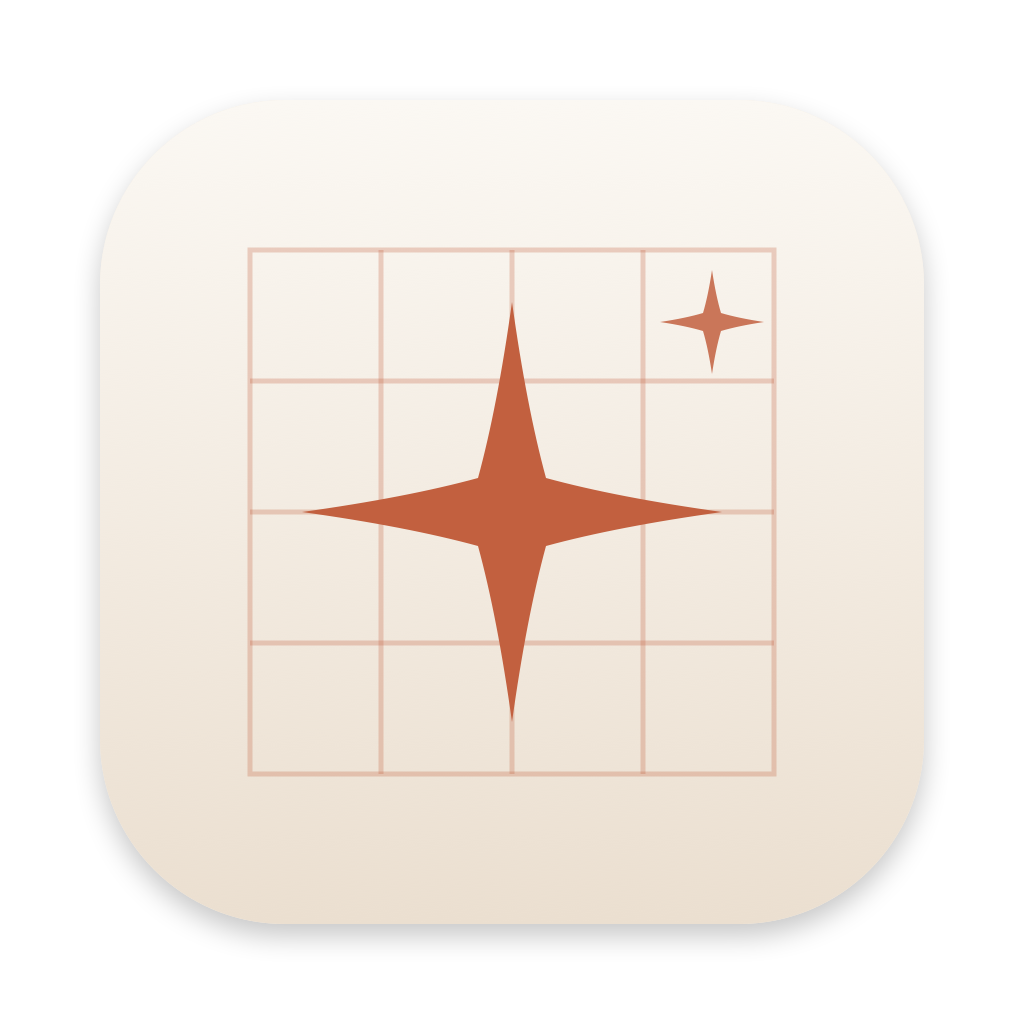
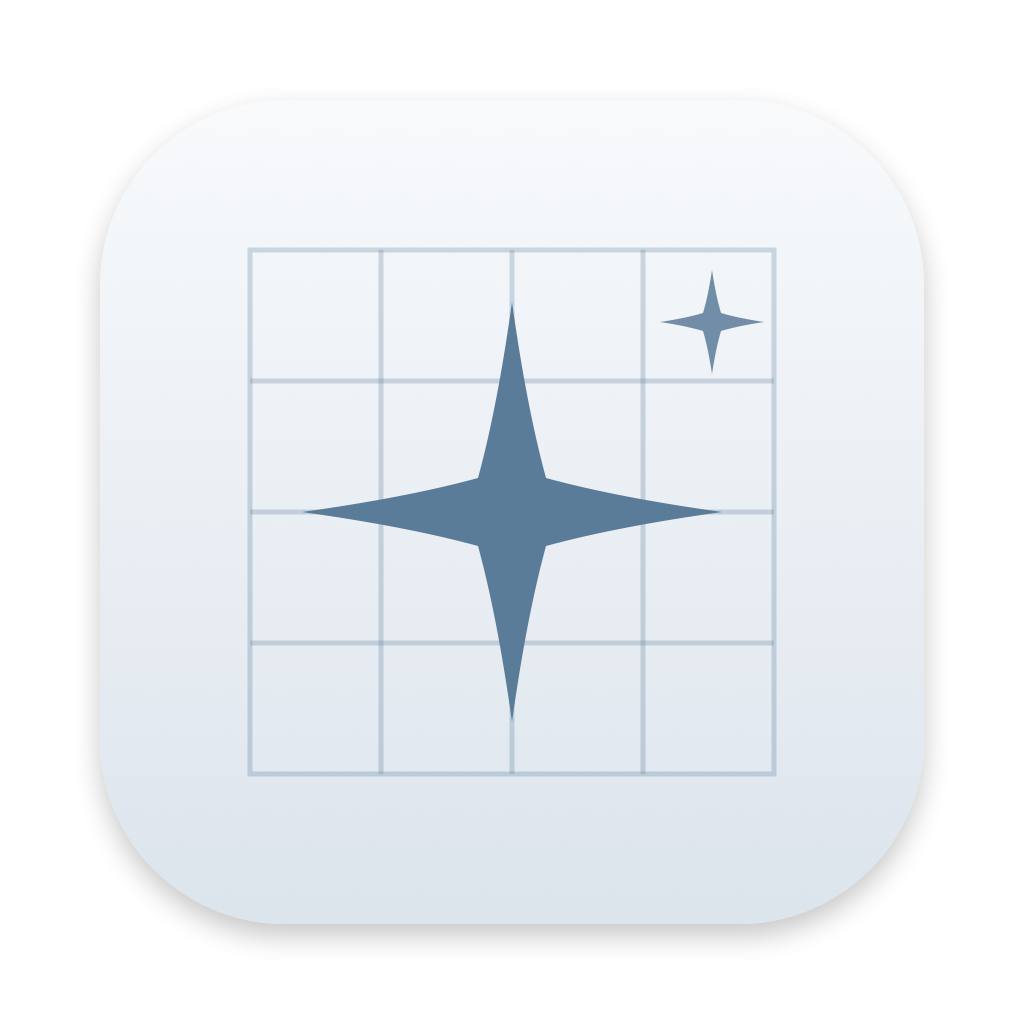
霧藍主色＋圖示；亂數起盤擴到西元1～9999年（修負數干支、跳過1582改曆缺日）；選單icon跟文字同色

Changed region(s): [[0.0938, 0.2188, 0.9062, 0.9062]]

diff --git a/apps/apple/Sources/Ziwei/Views/QuickMenu.swift b/apps/apple/Sources/Ziwei/Views/QuickMenu.swift
@@ -150,10 +150,9 @@ enum TempChart {
         case .now(let g): p = make(Date(), g, name: "紫占 · 此刻"); level = ZSettings.stored().openLevel
         case .sevenLayer(let g): p = make(Date(), g, name: "七層限流盤"); level = 5
         case .random(let g):
-            var cal = Calendar(identifier: .gregorian); cal.timeZone = .current
-            let d = cal.date(from: DateComponents(year: Int.random(in: 1940...2015), month: Int.random(in: 1...12),
-                                                  day: Int.random(in: 1...28), hour: Int.random(in: 0...23), minute: Int.random(in: 0...59)))!
-            p = make(d, g, name: "匿名"); level = ZSettings.stored().openLevel
+            // 亂序起盤：西元 1～9999 年任一刻
+            p = make(Int.random(in: Self.years), Int.random(in: 1...12), Int.random(in: 1...28),
+                     Int.random(in: 0...23), Int.random(in: 0...59), g, name: "匿名"); level = ZSettings.stored().openLevel
         }
         NotificationCenter.default.post(name: .openTemp, object: TempRequest(person: p, level: level))
     }
@@ -163,24 +162,30 @@ enum TempChart {
     static func openBaoshu(_ n: Int) {
         let minute = UInt64(Date().timeIntervalSince1970 / 60)
         var rng = SeededRandom(seed: UInt64(n) &* 0x9E3779B97F4A7C15 ^ minute)
-        let year = Int.random(in: 1930...2025, using: &rng)
+        // 西元 1～9999 年都可能；直接抽國曆日期，不經農曆換算（Foundation 在極端年份不可靠）
+        let year = Int.random(in: Self.years, using: &rng)
         let month = Int.random(in: 1...12, using: &rng)
-        var day = Int.random(in: 1...30, using: &rng)
-        if day == 30 && Lunar.monthLength(year, month) == 29 { day = 29 }
+        let day = Int.random(in: 1...28, using: &rng)
         let branch = Int.random(in: 0...11, using: &rng)
         let g: Gender = Bool.random(using: &rng) ? .male : .female
-        guard let s = Lunar.toSolar(year, month, day) else { return }
-        var cal = Calendar(identifier: .gregorian); cal.timeZone = TimeZone(identifier: "Asia/Taipei")!
-        let date = cal.date(from: DateComponents(year: s.0, month: s.1, day: s.2, hour: branch == 0 ? 0 : branch * 2, minute: branch == 0 ? 30 : 0))!
-        let p = make(date, g, name: "匿名")
+        let p = make(year, month, day, branch == 0 ? 0 : branch * 2, branch == 0 ? 30 : 0, g, name: "匿名")
         NotificationCenter.default.post(name: .openTemp, object: TempRequest(person: p, level: ZSettings.stored().openLevel))
-        Toast.show("報數 \(n) → 農曆\(year)年\(ZW.lunarMonths[month - 1])\(ZW.lunarDays[day - 1]) \(ZW.branches[branch])時 · \(g.rawValue)")
+        Toast.show("報數 \(n) → 西元\(year)年\(month)月\(day)日 \(ZW.branches[branch])時 · \(g.rawValue)")
     }
+
+    /// 亂數起盤的年份範圍
+    static let years = 1...9999
 
     static func make(_ d: Date, _ g: Gender, name: String) -> Person {
         let c = Calendar.current.dateComponents([.year, .month, .day, .hour, .minute], from: d)
-        return Person(name: name, gender: g, solar: "\(c.year!)-\(c.month!)-\(c.day!)", hour: SolarTime.shichen(c.hour!),
-                      group: "占卜", clock: String(format: "%d-%d-%d %02d:%02d", c.year!, c.month!, c.day!, c.hour!, c.minute!))
+        return make(c.year!, c.month!, c.day!, c.hour!, c.minute!, g, name: name)
+    }
+
+    static func make(_ y: Int, _ m: Int, _ d: Int, _ h: Int, _ min: Int, _ g: Gender, name: String) -> Person {
+        // 1582-10-5～14 在格里曆改曆時被跳過，不存在（iztro 會報錯）→ 移到 10-15
+        let d = (y == 1582 && m == 10 && (5...14).contains(d)) ? 15 : d
+        return Person(name: name, gender: g, solar: "\(y)-\(m)-\(d)", hour: SolarTime.shichen(h),
+               group: "占卜", clock: String(format: "%d-%d-%d %02d:%02d", y, m, d, h, min))
     }
 }
 

diff --git a/apps/apple/scripts/make-icon.swift b/apps/apple/scripts/make-icon.swift
@@ -19,19 +19,19 @@ let shape = CGPath(roundedRect: body, cornerWidth: 185, cornerHeight: 185, trans
 
 ctx.saveGState()
 ctx.setShadow(offset: CGSize(width: 0, height: -12), blur: 28, color: rgb(0x000000, 0.22))
-ctx.addPath(shape); ctx.setFillColor(rgb(0xF5EFE6)); ctx.fillPath()
+ctx.addPath(shape); ctx.setFillColor(rgb(0xF1F4F7)); ctx.fillPath()
 ctx.restoreGState()
 
 ctx.saveGState()
 ctx.addPath(shape); ctx.clip()
-let grad = CGGradient(colorsSpace: cs, colors: [rgb(0xFBF8F3), rgb(0xEBDFD0)] as CFArray, locations: [0, 1])!
+let grad = CGGradient(colorsSpace: cs, colors: [rgb(0xF8FAFC), rgb(0xDCE4EC)] as CFArray, locations: [0, 1])!
 ctx.drawLinearGradient(grad, start: CGPoint(x: 0, y: body.maxY), end: CGPoint(x: 0, y: body.minY), options: [])
 
 // 十二宮格：4×4 外圈，中間 2×2 留白
 let inset: CGFloat = 150
 let grid = body.insetBy(dx: inset, dy: inset)
 let cell = grid.width / 4
-ctx.setStrokeColor(rgb(0xC2603F, 0.28))
+ctx.setStrokeColor(rgb(0x5B7C99, 0.28))
 ctx.setLineWidth(5)
 ctx.stroke(grid)
 for k in 1..<4 {
@@ -68,8 +68,8 @@ func sparkle(center c: CGPoint, r: CGFloat, waist: CGFloat) -> CGPath {
     return p
 }
 let center = CGPoint(x: body.midX, y: body.midY)
-ctx.addPath(sparkle(center: center, r: 210, waist: 34)); ctx.setFillColor(rgb(0xC2603F)); ctx.fillPath()
-ctx.addPath(sparkle(center: CGPoint(x: center.x + 200, y: center.y + 190), r: 52, waist: 9)); ctx.setFillColor(rgb(0xC2603F, 0.85)); ctx.fillPath()
+ctx.addPath(sparkle(center: center, r: 210, waist: 34)); ctx.setFillColor(rgb(0x5B7C99)); ctx.fillPath()
+ctx.addPath(sparkle(center: CGPoint(x: center.x + 200, y: center.y + 190), r: 52, waist: 9)); ctx.setFillColor(rgb(0x5B7C99, 0.85)); ctx.fillPath()
 ctx.restoreGState()
 
 let img = ctx.makeImage()!

diff --git a/apps/apple/Sources/Ziwei/Bench.swift b/apps/apple/Sources/Ziwei/Bench.swift
@@ -16,6 +16,23 @@ enum Bench {
             exit(0)
         }
         guard let path = ProcessInfo.processInfo.environment["ZIWEI_BENCH"] else { return }
+        // 亂數起盤年份自測：ZIWEI_YEARS_TEST=1 時，排西元 1～9999 年的極端年份並回報命宮主星與四柱
+        if ProcessInfo.processInfo.environment["ZIWEI_YEARS_TEST"] != nil {
+            Task.detached {
+                var lines: [String] = []
+                for (y, m, d, h) in [(1, 1, 1, 0), (1, 6, 15, 13), (100, 3, 3, 7), (1582, 10, 10, 9), (1899, 12, 31, 23),
+                                     (2026, 10, 2, 10), (5000, 7, 7, 5), (9999, 12, 28, 22)] {
+                    let p = TempChart.make(y, m, d, h, 0, .male, name: "匿名")
+                    let c = await Engine.shared.chart(for: p)
+                    let mdl = await Engine.shared.model(for: p, pick: Pick.today())
+                    let bazi = BaziInfo(person: p, chart: c)
+                    lines.append("\(p.solar) → \(c.solarDate) | \(c.lunarDate) \(c.time) | 四柱 \(bazi.pillars.joined(separator: " ")) | model \(mdl == nil ? "nil" : "ok")")
+                }
+                try? lines.joined(separator: "\n").write(toFile: path, atomically: true, encoding: .utf8)
+                exit(0)
+            }
+            return
+        }
         Task.detached {
             var lines: [String] = []
             func ms(_ t0: Date) -> String { String(format: "%.1fms", Date().timeIntervalSince(t0) * 1000) }

diff --git a/apps/apple/Sources/Ziwei/Views/Sidebar.swift b/apps/apple/Sources/Ziwei/Views/Sidebar.swift
@@ -321,6 +321,7 @@ private struct SectionLabel: View {
                 .buttonStyle(.plain)
                 .menuIndicator(.hidden)
                 .labelStyle(.titleAndIcon)
+                .tint(Color.primary)
                 .fixedSize()
                 .onHover { h in withAnimation(Motion.fast) { sortHover = h } }
                 .help("排序：\(sort.wrappedValue.label)")
@@ -380,6 +381,7 @@ private struct AccountBar: View {
             .buttonStyle(.plain)
             .menuIndicator(.hidden)
             .labelStyle(.titleAndIcon)
+            .tint(Color.primary)   // 選單 icon 跟文字同色，不用主色
             .padding(.horizontal, 14)
             .frame(height: 44)
         }

diff --git a/apps/apple/Sources/Ziwei/Engine/Analysis.swift b/apps/apple/Sources/Ziwei/Engine/Analysis.swift
@@ -79,11 +79,11 @@ enum ZW {
         return (0..<5).map { first + $0 * 12 }
     }
 
-    static func yearGanzhi(_ y: Int) -> String { stems[(y - 4) % 10] + branches[(y - 4) % 12] }
+    static func yearGanzhi(_ y: Int) -> String { stems[((y - 4) % 10 + 10) % 10] + branches[((y - 4) % 12 + 12) % 12] }   // 西元 1～3 年也要正確
 
     /// 流月干支（五虎遁）：正月建寅，月干由年干起
     static func monthGanzhi(lunarYear y: Int, month m: Int) -> String {
-        let first = (((y - 4) % 10) % 5) * 2 + 2
+        let first = ((((y - 4) % 10 + 10) % 10) % 5) * 2 + 2
         return stems[(first + m - 1) % 10] + branches[(m + 1) % 12]
     }
 

diff --git a/apps/apple/Sources/Ziwei/Theme.swift b/apps/apple/Sources/Ziwei/Theme.swift
@@ -21,7 +21,7 @@ extension Color {
     static let zText3 = dynamic(0x9C9A93, 0x7A7872)
     static let zHover = dynamic(0xF1F0ED, 0x34332F)
     static let zSel = dynamic(0xEDEDEA, 0x3A3935)       // 選取列：淺灰
-    static let zAccent = dynamic(0xC2603F, 0xE08A68)
+    static let zAccent = dynamic(0x5B7C99, 0x8FA9C2)   // 霧藍
 
     // 命盤（照文墨天機）
     static let wmRed = dynamic(0xD0102A, 0xFF6B76)
